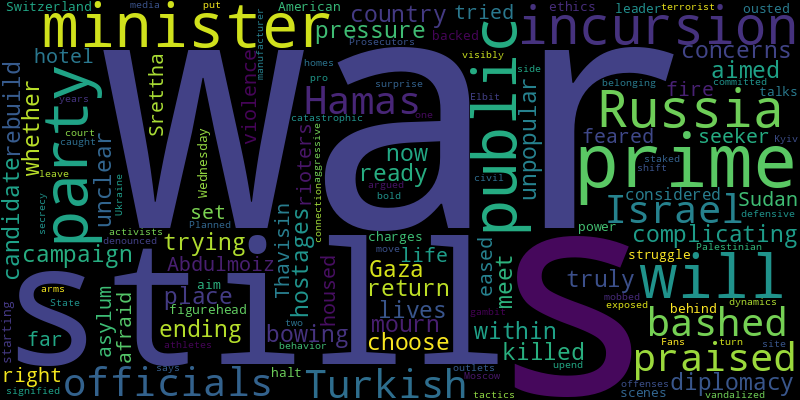
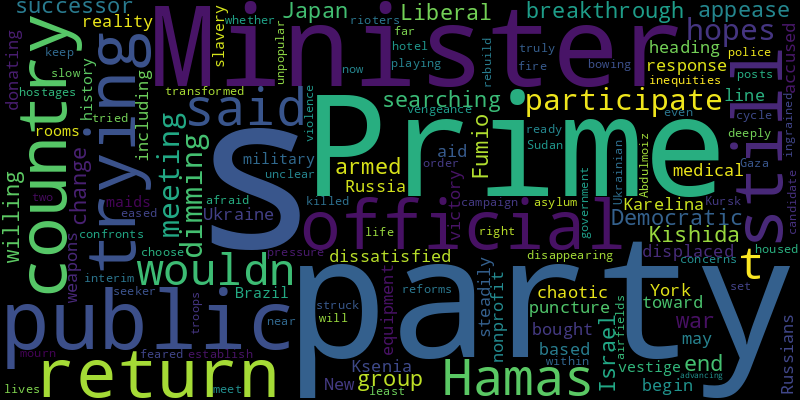
chore(bot): 😱 auto commit

diff --git a/README.md b/README.md
@@ -2,41 +2,41 @@
 Auto RSS New York Times and Generate Word Cloud
 
 ## New York Times Global News
-* Turkish officials have bashed Israel and praised Hamas, complicating  their country’s place in diplomacy aimed at ending the war.
+* Hamas said it wouldn’t participate in the meeting, dimming hopes for a breakthrough to end Israel’s war against the armed group.
+* Japan’s Liberal Democratic Party is searching for a successor to Prime Minister Fumio Kishida. But is it willing to change to appease a dissatisfied public?
+* The reality of 130,000 displaced Russians and a chaotic official response may begin to puncture the official line that Russia is steadily heading toward victory.
+* Ksenia Karelina is accused of donating $52 to a New York-based nonprofit that bought weapons and other equipment, including medical aid, for Ukraine’s military.
+* In Brazil, rooms for maids, a vestige of the country’s history of slavery, are disappearing or being transformed as the country confronts deeply ingrained inequities.
+* A cycle of vengeance is playing out even as the interim government is trying to establish reforms and keep order, with the police slow to return to their posts.
 * They are now trying to rebuild their lives, campaign for the return of the hostages still in Gaza and mourn for those who were killed.
 * The unpopular prime minister is bowing to pressure within his party. But it is unclear whether the party is truly ready to choose a candidate who will meet the public’s concerns.
 * Abdulmoiz, an asylum seeker from Sudan, feared for his life when far-right rioters tried to set fire to the hotel where he was housed. The violence has eased, but he is still afraid.
-* Prime Minister Srettha Thavisin was considered a figurehead leader in a behind-the-scenes power struggle. He was ousted on ethics charges.
-* The American-backed talks in Switzerland, starting on Wednesday, aim to halt a catastrophic civil war. But only one side says it will turn up.
-* Fans have mobbed athletes in public and staked out their homes. State media outlets denounced their “visibly aggressive” behavior.
-* Planned in secrecy, the incursion was a bold move to upend the war’s dynamics and put Moscow on the defensive — a gambit that could also leave Ukraine exposed.
-* The incursion caught Russia by surprise and signified a shift in tactics for Kyiv after more than two years of war with Russia.
-* Prosecutors argued in court that pro-Palestinian activists had vandalized a site belonging to Elbit, an arms manufacturer, and had committed offenses with a “terrorist connection.”
+* At least two of the airfields it struck are near Kursk, where Ukrainian troops have been advancing.
 
 ![Global](./global.png)
 ## New York Times United States News
-* Gov. Tim Walz’s response to the unrest has attracted new scrutiny, and diverging opinions, since he joined Kamala Harris’s ticket.
-* The case, against the parents of a gunman who killed 10 people in Santa Fe, Texas, in 2018, is among the first in which school shooting victims are trying to hold parents liable in civil court.
-* Republicans accused Democratic officials of trying to sway the results. But prosecutors found that the problem stemmed from an employee whose attention was diverted.
+* Nemat Shafik is the third Ivy League president to resign in the wake of turbulent congressional appearances and strife connected to the Israel-Hamas war.
+* The judge’s temporary ruling said that protests that prevent Jewish students from accessing parts of the campus violated religious freedom rights.
 * The governor of Minnesota hasn’t spent his life striving for the pinnacle of politics. That is how he got there.
-* In late July, Waymo rented a parking lot outside two San Francisco apartment buildings for its vehicles to idle in. Then came the noise.
-* Two other House Democrats who are part of the left-wing “squad” lost primary contests this summer after an influx of spending by pro-Israel groups.
-* Mr. Hovde, a wealthy businessman endorsed by Donald J. Trump, won the Republican primary Tuesday night to challenge Senator Tammy Baldwin, the Democratic incumbent.
-* William Lester Suff, 70, was already on death row for a dozen murders in Southern California. Now, he has confessed to killing a 19-year-old woman, shutting a 1986 cold case, officials said.
-* After President Biden dropped his re-election bid, his administration released records showing that while he was vice president, his son solicited U.S. government assistance.
-* Dunyadar Gasanov admitted he had lied to investigators about how long he had known the driver of the truck and altered drivers’ logs to evade federal regulations.
+* Republicans may be backing away from abortion, but these activists have a strategy, with or without Trump.
+* Some of the tactics that have consumers jumping through hoops to cancel a cable or gym membership could be banned under a new initiative launched this week by the White House.
+* Dr. Katrina A. Armstrong replaces Nemat Shafik as president of one of the most turbulent campuses in America.
+* The nonpartisan Cook Political Report moved the race from “tossup” to “lean Democrat” after polling shows Senator Jacky Rosen with a large edge.
+* City Attorney David Chiu has filed a lawsuit seeking to permanently shutter 16 popular websites that turn images of real girls and women into pornography.
+* The vice-presidential candidate wasn’t always tough on firearms. When he ran for Minnesota governor, he tried to recast a legislative record that had gotten high marks from the N.R.A.
+* The Biden administration said it would have saved $6 billion had the new prices been in effect last year.
 
 ![US](./usnews.png)
 ## New York Times Asia News
+* There were no immediate reports of major damage, but the island’s fire department warned of the risk of landslides in mountainous areas.
+* A cycle of vengeance is playing out even as the interim government is trying to establish reforms and keep order, with the police slow to return to their posts.
+* The powerful storm is expected to bring heavy rain, strong winds and the threat of floods and landslides to eastern Japan, including Tokyo, on Friday.
+* Japan’s Liberal Democratic Party is searching for a successor to Prime Minister Fumio Kishida. But is it willing to change to appease a dissatisfied public?
+* The reporter Jin Yu Young wrote about companies that have pushed their managers to work longer hours, a move that has not gone over well with some young people in the country.
+* WeRide, a $5 billion software maker, is set for an I.P.O. amid geopolitical risks and a rush by Chinese automotive tech firms to raise money in the United States.
+* Plus, a fake Elon Musk scam.
+* The Taiwanese company has built a manufacturing hub in Zhengzhou, China, for its star customer Apple, but it is starting almost from scratch in the auto business.
 * Prime Minister Srettha Thavisin was considered a figurehead leader in a behind-the-scenes power struggle. He was ousted on ethics charges.
 * Police were racing to recover the fake sweets, each of which contained up to 300 doses of methamphetamine. Three people sought medical attention.
-* Fans have mobbed athletes in public and staked out their homes. State media outlets denounced their “visibly aggressive” behavior.
-* The unpopular prime minister is bowing to pressure within his party. But it is unclear whether the party is truly ready to choose a candidate who will meet the public’s concerns.
-* Extreme rainfall made 10 percent heavier by human-caused climate change triggered landslides that killed hundreds, according to a new study.
-* Plus, in Russian territory captured by Ukraine.
-* The two countries have held joint exercises near Alaska, Taiwan and Japan in defiance of the United States and its alliances.
-* The young protesters who felled an autocrat are now cabinet ministers and traffic cops, trying to restore order and chart a new future for a nation of 170 million.
-* Lt. Gen. Faiz Hameed is the first current or former head of the powerful Inter-Services Intelligence agency to face court-martial proceedings.
-* Plus, A.I. is helping piece together an ancient epic.
 
 ![Asian](./asian.png)
